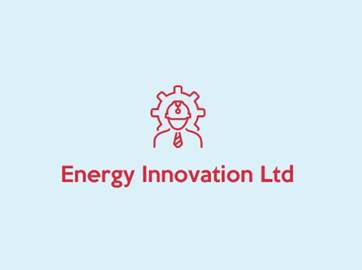
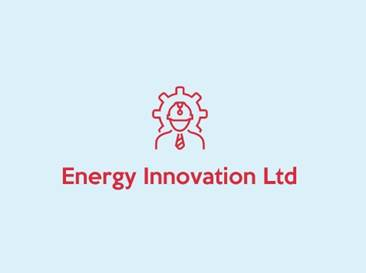
Add files via upload

Changed region(s): [[0.1823, 0.5926, 0.8204, 0.7111], [0.4254, 0.2963, 0.5773, 0.5333]]

diff --git a/WORD/equipmentsource.htm b/WORD/equipmentsource.htm
@@ -35,14 +35,32 @@ div.WordSection1
 
 <div class=WordSection1>
 
-<p class=MsoNormal style='margin-left:35.45pt'><b><span style='font-size:22.0pt;
-color:#EE0000'><img width=279 height=208 id="Picture 1"
-src="equipmentsource_files/image001.jpg"></span></b><b><u><span
-style='font-size:20.0pt;color:#EE0000'>Global Sourcing of Power Plant Surplus
-Equipment</span></u></b><b><span style='font-size:20.0pt;color:#EE0000'> </span></b></p>
+<p class=MsoNormal align=center style='margin-left:35.45pt;text-align:center'><img
+width=390 height=291 src="equipmentsource_files/image001.jpg" align=left
+hspace=12><b><u><span style='font-size:26.0pt;color:#EE0000'>Global Sourcing</span></u></b></p>
 
 <p class=MsoNormal align=center style='margin-left:35.45pt;text-align:center'><b><u><span
-style='font-size:14.0pt;color:#EE0000'><span style='text-decoration:none'>&nbsp;</span></span></u></b></p>
+style='font-size:26.0pt;color:#EE0000'><span style='text-decoration:none'>&nbsp;</span></span></u></b></p>
+
+<p class=MsoNormal align=center style='margin-left:35.45pt;text-align:center'><b><u><span
+style='font-size:18.0pt;color:#EE0000'>of</span></u></b></p>
+
+<p class=MsoNormal align=center style='margin-left:35.45pt;text-align:center'><b><u><span
+style='font-size:26.0pt;color:#EE0000'><span style='text-decoration:none'>&nbsp;</span></span></u></b></p>
+
+<p class=MsoNormal align=center style='margin-left:35.45pt;text-align:center'><b><u><span
+style='font-size:26.0pt;color:#EE0000'>Power Plant Surplus Equipment</span></u></b></p>
+
+<p class=MsoNormal align=center style='margin-left:35.45pt;text-align:center'><b><u><span
+style='font-size:26.0pt;color:#EE0000'><span style='text-decoration:none'>&nbsp;</span></span></u></b></p>
+
+<p class=MsoNormal style='margin-left:35.45pt'>&nbsp;</p>
+
+<p class=MsoNormal style='margin-left:35.45pt'>&nbsp;</p>
+
+<p class=MsoNormal style='margin-left:35.45pt'>&nbsp;</p>
+
+<p class=MsoNormal style='margin-left:35.45pt'>&nbsp;</p>
 
 <p class=MsoNormal style='margin-left:35.45pt'>&nbsp;</p>
 
